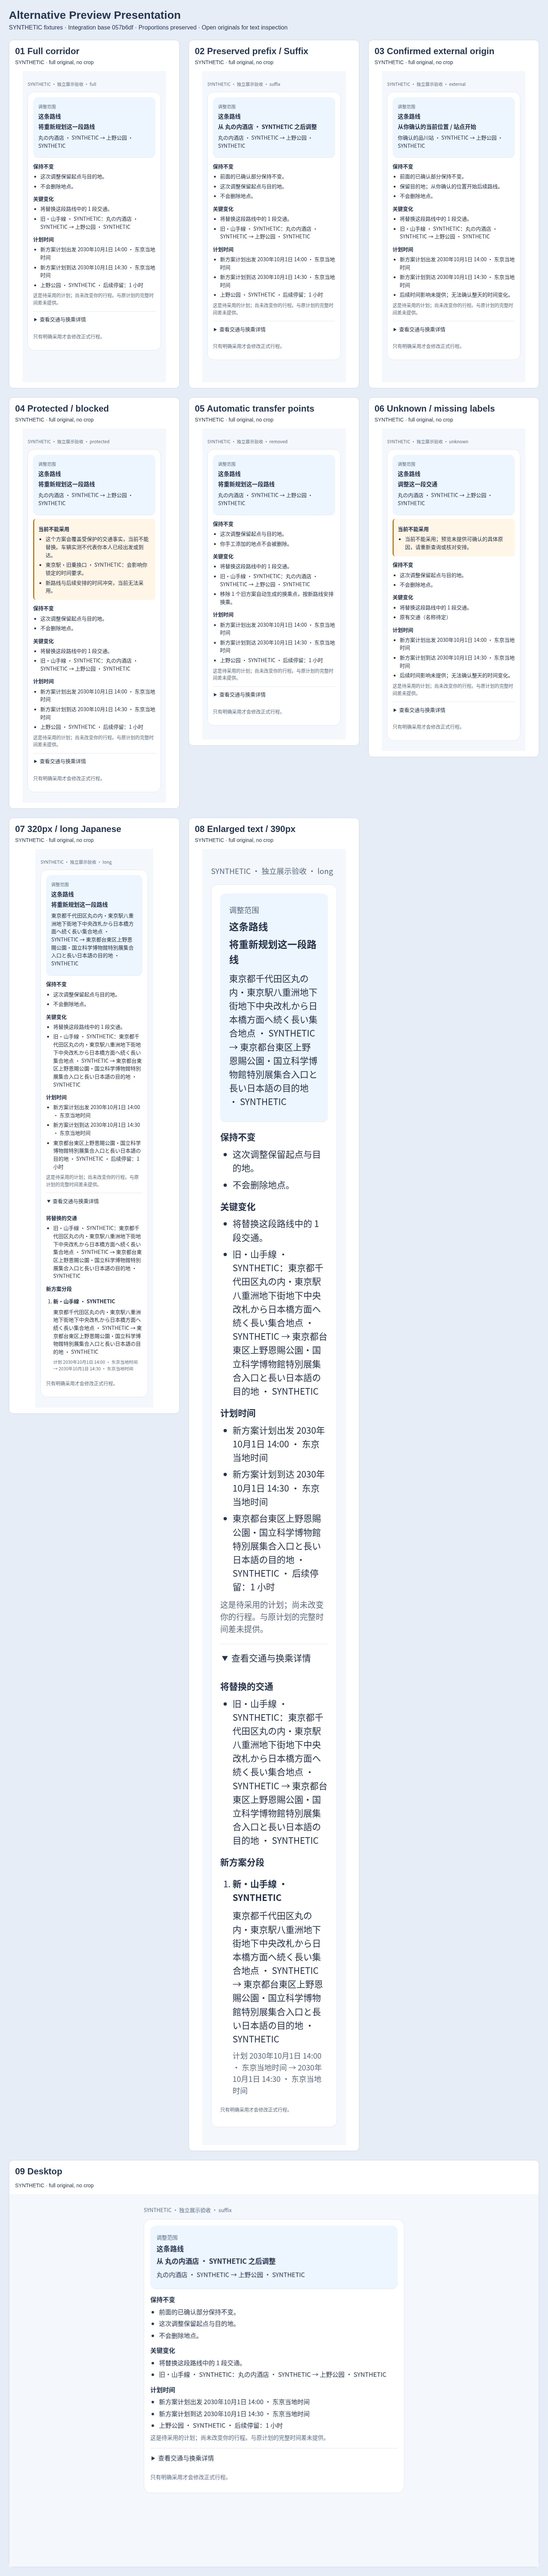
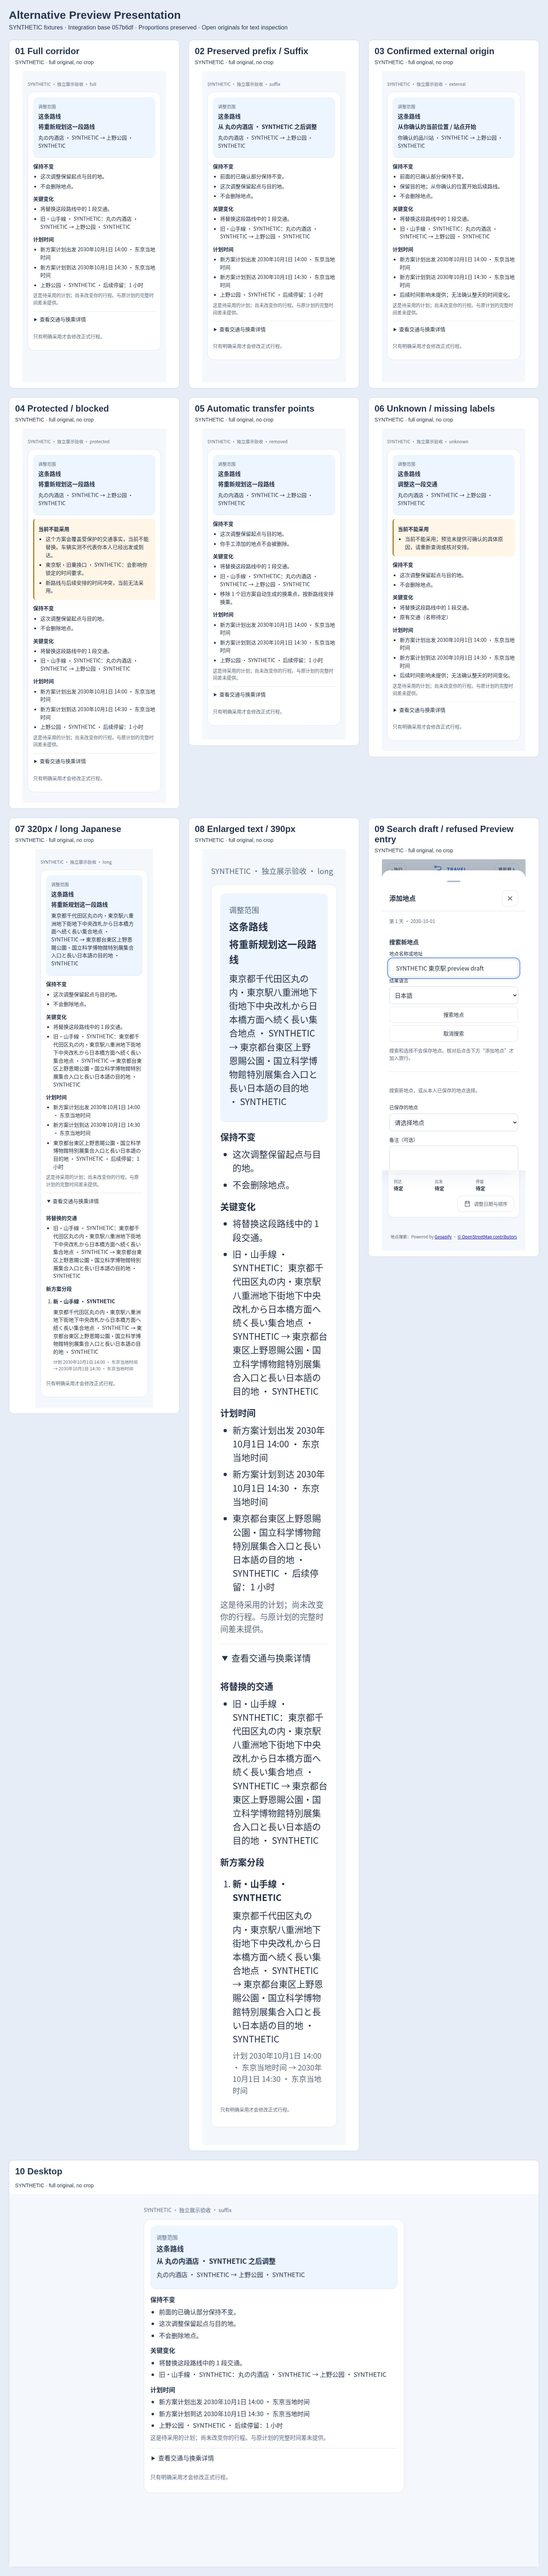
docs(p6c2): record integrated acceptance and draft protection visuals

Changed region(s): [[0.6492, 0.3118, 0.9892, 0.4989]]

diff --git a/docs/status/P6C-2-PREVIEW-PRESENTATION.md b/docs/status/P6C-2-PREVIEW-PRESENTATION.md
@@ -68,7 +68,21 @@ These limits belong to contract/product decisions for the controller and A. This
 
 ## Verification
 
-Local evidence and the final commit CI are recorded in the Draft PR body. Full verification includes frozen install, Prisma generate/validate, format, lint, typecheck, build, Unit, isolated PostgreSQL migration/integration, Chromium, WebKit, Compose and P5B.
+Integrated frozen runtime validation on execution HEAD **`85f96129250402cd1e4c5bffcc2b2a2115159bdb`**:
+
+| Check                                      | Integrated local result                                                                         |
+| ------------------------------------------ | ----------------------------------------------------------------------------------------------- |
+| Frozen install; Prisma generate / validate | PASS                                                                                            |
+| Format / lint / typecheck / build          | PASS                                                                                            |
+| Unit                                       | **804 PASS** (71 files; includes 23 pure presentation cases)                                    |
+| PostgreSQL 17 clean deploy / integration   | **26 migrations; 659 PASS** (106 persistence + 553 API; inherited 18 failure/concurrency cases) |
+| Chromium                                   | **248 PASS**, including C search draft protection and 2 joint chains                            |
+| WebKit                                     | **248 PASS**, same assertions and joint chains                                                  |
+| Compose                                    | PASS; existing full-chain script / all guards retained                                          |
+| P5B                                        | PASS; 5 users / 200 requests; 0 isolation failures, unexpected 5xx or network failures          |
+| API / contract / schema / migration delta  | **0 / 0 / 0 / 0** relative to integration main; migration total **26**                          |
+
+Execution CI: [37172190076](https://github.com/tonivikingdom/TRAVEL-V1/actions/runs/37172190076), bound to the execution SHA above, **completed/success**. **verify / Compose verification / P5B acceptance all completed/success**; CI independently reports Unit **804**, PostgreSQL **659**, Chromium **248**, WebKit **248**, and clean deploy **26**, matching local results. The following documentation/artifact commit must receive a separate complete successful CI before handoff. Exact final documentation HEAD and final CI are recorded in [PR #48](https://github.com/tonivikingdom/TRAVEL-V1/pull/48), because this document cannot embed its own hash. Execution CI alone is not final documentation-head evidence; old B CI `37166950625` is not integrated evidence.
 
 Presentation acceptance covers FULL, SUFFIX, EXTERNAL_ORIGIN, non-adoptable, protected/locked requirements, automatic/manual removals, minimal change, unknown optional labels, expiry, explicit dwell consent, XSS escaping, stale/foreign label context, explicit internal-transfer ordering, long Japanese names, 320/375/390/430, 24px enlarged text and desktop. Formal Web checks preserve explicit Adopt and refusal without dwell consent; the existing full suite exercises route replacement/Undo, authoring/drafts, owner/version regressions and Safari/touch protection.
 
@@ -76,7 +90,9 @@ Local Compose uses an isolated SYNTHETIC project with the environment proxy CA m
 
 ## Visual evidence
 
-All fixtures and screenshots are **SYNTHETIC**. Assets are committed under [assets/p6c-2-preview](assets/p6c-2-preview/). Full originals keep the entire captured UI; contact sheet preserves proportions and includes scope variants, protected block, removals, unknown information, narrow/enlarged layout and desktop.
+All fixtures and screenshots are **SYNTHETIC**. Assets are committed under [assets/p6c-2-preview](assets/p6c-2-preview/). Full originals keep the entire captured UI; contact sheet preserves proportions and includes scope variants, protected block, removals, unknown information, narrow/enlarged layout, the retained search draft after refused Preview entry, and desktop. The 10-panel sheet and all 19 PNG originals were actually opened; the 18 existing projection images were regenerated with the integrated source (their pixels remain unchanged).
+
+[Joint search / Preview guard](assets/p6c-2-preview/mobile-search-preview-guard.png)
 
 [Review contact sheet](assets/p6c-2-preview/review-contact-sheet.jpg)
 
